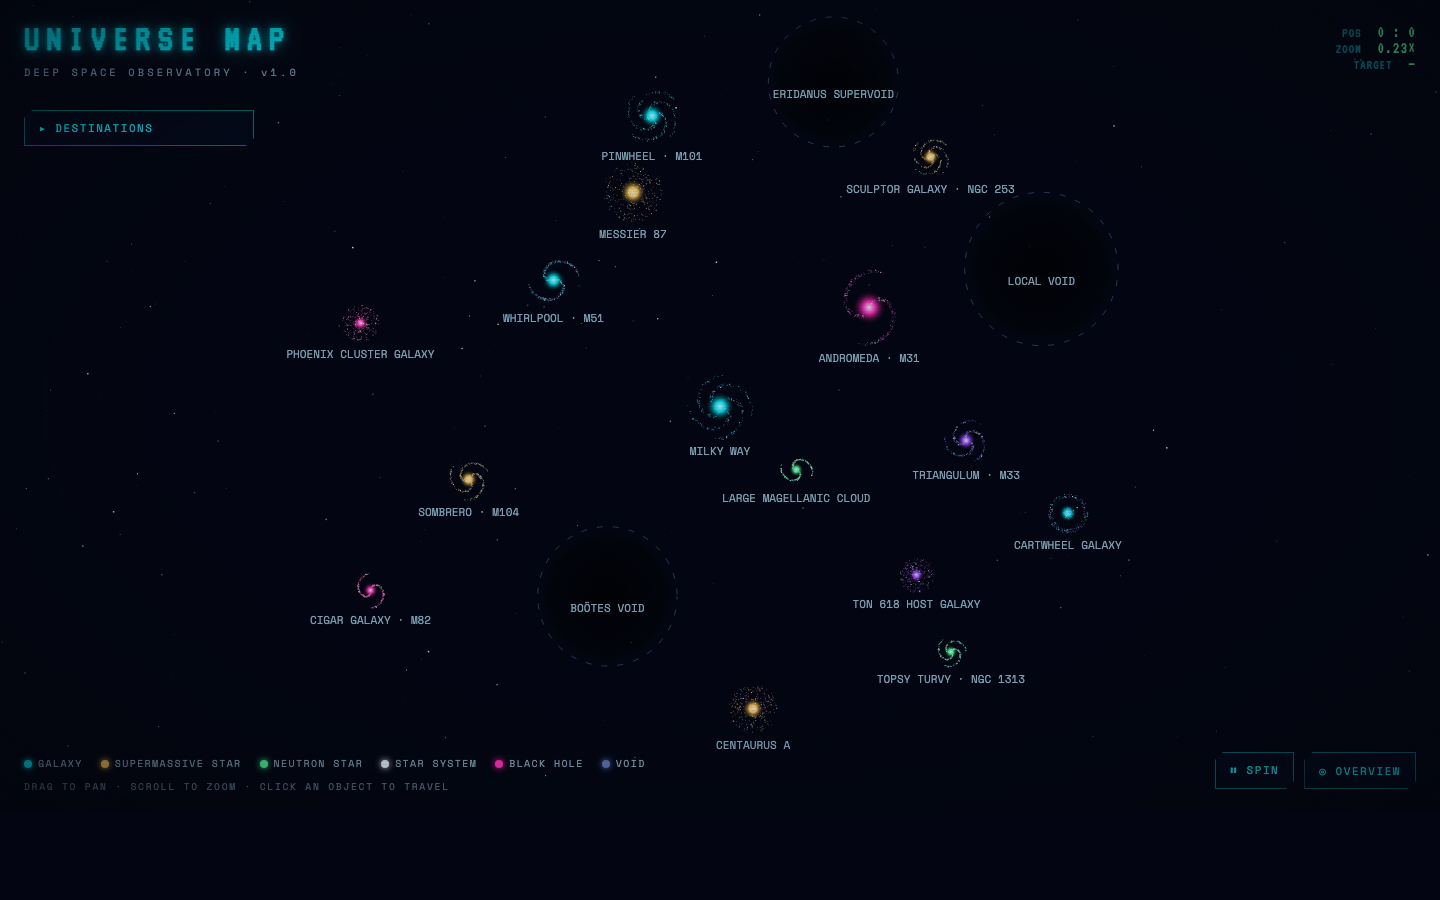
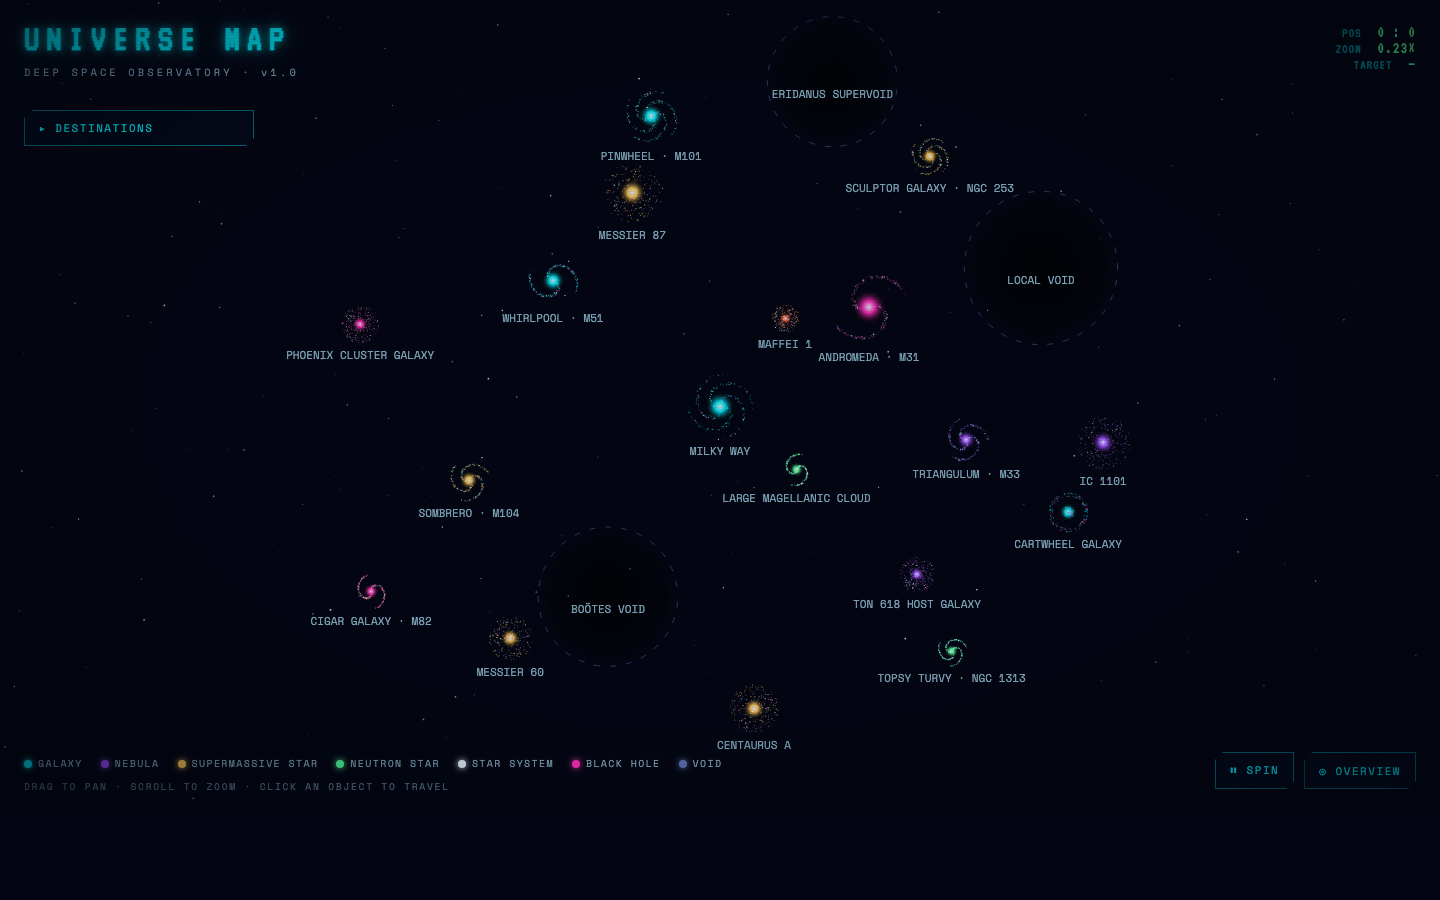
Add nebulae and new elliptical galaxies
New `nebula` object type — a handful of soft, irregularly placed
glow-puffs blended with `globalCompositeOperation: 'lighter'` so
overlapping colors brighten like real ionized gas, instead of a flat
static blob:

- Orion Nebula (M42) and Crab Nebula (M1), inside the Milky Way
- Helix Nebula (NGC 7293), the closest planetary nebula to Earth
- Tarantula Nebula (30 Doradus), inside the LMC alongside R136a1 —
  the star cluster it actually hosts in reality

3 new elliptical galaxies (reusing the existing `elliptical: true`
particle shape):
- IC 1101, one of the largest galaxies ever discovered
- Messier 60, with a new interior black hole M60* (~4.5B solar
  masses) following the same pattern as M87*/M104*/M31*
- Maffei 1, a giant elliptical hidden directly behind the Milky
  Way's own disk (the "Zone of Avoidance"), only found in 1968 via
  infrared

Wired `nebula` through byType, the object-state builder (a new
makeNebulaPuffs), TYPE_LABEL, and a neon-purple badge/legend entry
in style.css/index.html.

Verified in-browser: 41/41 objects valid (unique ids, zero orphan
parents, zero spatial overlaps among top-level galaxies/voids), zero
console errors, confirmed nebula rendering, M60*'s breadcrumb
("MESSIER 60 › M60*") and "inside MESSIER 60" panel copy, and the
destinations nav nesting all new objects under their hosts.
Regenerated the README overview screenshot and updated the object
catalog table.

diff --git a/js/data.js b/js/data.js
@@ -168,6 +168,36 @@ const galaxiesData = {
       size: 'unresolved — quasar outshines it',
       desc: 'The galaxy presumed to surround TON 618 is so thoroughly outshone by its quasar that its actual shape has never been directly resolved — this is an artist’s reconstruction of what a host massive enough to feed such a black hole would look like.'
     },
+    {
+      id: 'ic1101', name: 'IC 1101', type: 'galaxy',
+      class: 'Supergiant elliptical · cD', elliptical: true,
+      x: 1650, y: 150, radius: 115,
+      palette: ['--neon-purple', '--star-white', '--void-blue'],
+      spinSpeed: 0.00003,
+      distance: '~1.04 billion ly',
+      size: 'up to ~4 million ly across (disputed)',
+      desc: 'One of the largest galaxies ever discovered, anchoring the Abell 2029 cluster. Early estimates put its faint outer halo at 4 million light-years across — 40 times the Milky Way — though modern reanalysis suggests a smaller, still-staggering true extent.'
+    },
+    {
+      id: 'm60', name: 'MESSIER 60', type: 'galaxy',
+      class: 'Giant elliptical · E2', elliptical: true,
+      x: -900, y: 1000, radius: 95,
+      palette: ['--golden-yellow', '--star-white', '--neon-purple'],
+      spinSpeed: 0.00006,
+      distance: '~55 million ly',
+      size: '~120,000 ly across',
+      desc: 'A giant elliptical in the Virgo Cluster, seen from Earth almost overlapping its spiral neighbor NGC 4647 — an "odd couple" caught mid-gravitational-dance, though they are millions of light-years apart in reality. Zoom in for the black hole anchoring its core.'
+    },
+    {
+      id: 'maffei1', name: 'MAFFEI 1', type: 'galaxy',
+      class: 'Giant elliptical · E3', elliptical: true,
+      x: 280, y: -380, radius: 60,
+      palette: ['--star-red', '--star-white', '--golden-yellow'],
+      spinSpeed: 0.00005,
+      distance: '~9.8 million ly',
+      size: '~150,000 ly across',
+      desc: 'A giant elliptical hiding directly behind the dust and stars of the Milky Way\'s own disk, in a region astronomers call the Zone of Avoidance. Invisible in ordinary light, it was only discovered in 1968 by looking in infrared.'
+    },
 
     /* ══ SUPERMASSIVE STARS (inside their host galaxies) ══ */
     {
@@ -265,6 +295,48 @@ const galaxiesData = {
       desc: 'Our own star system: the Sun and eight planets bound by its gravity, orbiting roughly 26,000 light-years from the Milky Way’s core. Every human who has ever lived called one of these worlds home.'
     },
 
+    /* ══ NEBULAE (glowing clouds of gas and dust) ══ */
+    {
+      id: 'orion-nebula', name: 'ORION NEBULA · M42', type: 'nebula',
+      class: 'Diffuse emission nebula · stellar nursery',
+      parent: 'milky-way', local: { r: 95, a: 2.2 }, radius: 26,
+      palette: ['--cyber-pink', '--neon-purple', '--star-white'],
+      spinSpeed: 0.00006,
+      distance: '~1,344 ly',
+      size: '~24 ly across',
+      desc: 'The nearest large stellar nursery to Earth, visible to the naked eye as a fuzzy patch in Orion\'s sword. At its heart, the Trapezium Cluster of hot young stars lights up the surrounding gas — over 1,000 new stars are forming inside it right now.'
+    },
+    {
+      id: 'crab-nebula', name: 'CRAB NEBULA · M1', type: 'nebula',
+      class: 'Supernova remnant',
+      parent: 'milky-way', local: { r: 45, a: 0.4 }, radius: 18,
+      palette: ['--neon-cyan', '--neon-purple', '--star-white'],
+      spinSpeed: 0.00007,
+      distance: '~6,500 ly',
+      size: '~11 ly across',
+      desc: 'Wreckage from a supernova so bright that Chinese and Arab astronomers recorded it as a daylight star in the year 1054. The very first entry in Messier\'s catalog, it still hides a neutron star at its core, spinning 30 times every second.'
+    },
+    {
+      id: 'helix-nebula', name: 'HELIX NEBULA · NGC 7293', type: 'nebula',
+      class: 'Planetary nebula · "Eye of God"',
+      parent: 'milky-way', local: { r: 130, a: 1.0 }, radius: 20,
+      palette: ['--terminal-green', '--neon-cyan', '--star-white'],
+      spinSpeed: 0.00005,
+      distance: '~650 ly',
+      size: '~2.5 ly across',
+      desc: 'The closest planetary nebula to Earth — the outer layers of a dying Sun-like star, shed into space and lit up by the exposed white-dwarf core left behind. Its layered, eye-like structure earned it the nickname "Eye of God".'
+    },
+    {
+      id: 'tarantula-nebula', name: 'TARANTULA NEBULA · 30 DORADUS', type: 'nebula',
+      class: 'Giant emission nebula · starburst region',
+      parent: 'lmc', local: { r: 48, a: 3.5 }, radius: 30,
+      palette: ['--cyber-pink', '--golden-yellow', '--star-white'],
+      spinSpeed: 0.00008,
+      distance: '~163,000 ly (LMC)',
+      size: '~1,800 ly across',
+      desc: 'The most violent star-forming region in the Local Group — so luminous that, at the distance of the Orion Nebula, it would cast shadows on Earth. It cradles the super star cluster that gave birth to R136a1, the most massive star known.'
+    },
+
     /* ══ BLACK HOLES ══ */
     {
       id: 'sagittarius-a', name: 'SAGITTARIUS A*', type: 'blackhole',
@@ -305,6 +377,16 @@ const galaxiesData = {
       distance: '~29.3 million ly',
       size: '~1 billion solar masses',
       desc: 'One of the most massive black holes ever found in a nearby galaxy, anchoring the Sombrero’s brilliant core — a billion Suns’ worth of gravity packed into a region smaller than our Solar System.'
+    },
+    {
+      id: 'm60-star', name: 'M60*', type: 'blackhole',
+      class: 'Supermassive black hole',
+      parent: 'm60', local: { r: 0, a: 0 }, radius: 17,
+      palette: ['--golden-yellow', '--neon-purple'],
+      spinSpeed: 0.0006,
+      distance: '~55 million ly',
+      size: '~4.5 billion solar masses',
+      desc: 'A black hole roughly a thousand times heavier than the Milky Way\'s own, anchoring one of the largest known galaxies in the nearby universe — extreme even by the standards of giant ellipticals.'
     },
     {
       id: 'ton-618', name: 'TON 618', type: 'blackhole',

diff --git a/js/main.js b/js/main.js
@@ -110,6 +110,7 @@ const objects = galaxiesData.objects.map((data) => {
   if (data.type === 'galaxy') state.particles = makeGalaxyParticles(data);
   if (data.type === 'blackhole') state.disk = makeDiskParticles(data);
   if (data.type === 'system') state.planets = makePlanets(data);
+  if (data.type === 'nebula') state.puffs = makeNebulaPuffs(data);
   return state;
 });
 
@@ -123,7 +124,7 @@ const pickOrder = [...objects].sort((a, b) => a.data.radius - b.data.radius);
 
 /* Objects grouped by type once, so the render loop can draw each layer
    with a plain `for` — no per-frame filtering, lower branch count. */
-const byType = { void: [], galaxy: [], star: [], neutron: [], system: [], blackhole: [] };
+const byType = { void: [], galaxy: [], nebula: [], star: [], neutron: [], system: [], blackhole: [] };
 for (const o of objects) byType[o.data.type].push(o);
 
 /* Interior objects orbit with their host galaxy's spin */
@@ -212,6 +213,23 @@ function makePlanets(data) {
   return pts;
 }
 
+/* A handful of soft, irregularly placed glowing puffs of gas —
+   rotate together with the nebula's own (slow) spin. */
+function makeNebulaPuffs(data) {
+  const pts = [];
+  const count = 10;
+  for (let i = 0; i < count; i++) {
+    pts.push({
+      r: data.radius * rnd() * 0.85,
+      a: rnd() * Math.PI * 2,
+      size: data.radius * (0.35 + rnd() * 0.4),
+      ci: pickColorIndex(),
+      alpha: 0.35 + rnd() * 0.3,
+    });
+  }
+  return pts;
+}
+
 /* ── Renderers ── */
 function drawGalaxy(o, t) {
   const { data, colors } = o;
@@ -241,6 +259,37 @@ function drawGalaxy(o, t) {
     const s = Math.max(p.size * Math.min(z * 2, 1.6), 0.6);
     ctx.fillRect(px, py, s, s);
   }
+  ctx.globalAlpha = 1;
+}
+
+/* A soft, roiling cloud of overlapping glow-puffs, additively blended
+   so overlapping colors brighten like real ionized gas. */
+function drawNebula(o, t) {
+  const { data, colors } = o;
+  const va = childAlpha(o);
+  if (va < 0.02) return;
+  const wp = worldPos(o);
+  const sc = worldToScreen(wp.x, wp.y);
+  const z = camera.zoom;
+  const rot = o.angle + mapRotation;
+
+  ctx.globalCompositeOperation = 'lighter';
+  for (const p of o.puffs) {
+    const a = p.a + rot;
+    const px = sc.x + Math.cos(a) * p.r * z;
+    const py = sc.y + Math.sin(a) * p.r * z;
+    const R = Math.max(p.size * z, 2);
+    const g = ctx.createRadialGradient(px, py, 0, px, py, R);
+    const color = colors[p.ci] || colors[0];
+    g.addColorStop(0, color);
+    g.addColorStop(1, 'rgba(0,0,0,0)');
+    ctx.globalAlpha = p.alpha * va;
+    ctx.fillStyle = g;
+    ctx.beginPath();
+    ctx.arc(px, py, R, 0, Math.PI * 2);
+    ctx.fill();
+  }
+  ctx.globalCompositeOperation = 'source-over';
   ctx.globalAlpha = 1;
 }
 
@@ -674,6 +723,7 @@ const hudTarget = document.getElementById('hud-target');
 
 const TYPE_LABEL = {
   galaxy: 'GALAXY',
+  nebula: 'NEBULA',
   star: 'SUPERMASSIVE STAR',
   neutron: 'NEUTRON STAR',
   system: 'STAR SYSTEM',
@@ -829,6 +879,7 @@ function renderScene(t) {
 
   for (const o of byType.void) drawVoid(o, t);
   for (const o of byType.galaxy) drawGalaxy(o, t);
+  for (const o of byType.nebula) drawNebula(o, t);
   for (const o of byType.star) drawStarObj(o, t);
   for (const o of byType.neutron) drawNeutronStar(o, t);
   for (const o of byType.system) drawSolarSystem(o, t);

diff --git a/css/style.css b/css/style.css
@@ -138,6 +138,7 @@ html, body {
 }
 .dot { width: 8px; height: 8px; border-radius: 50%; display: inline-block; }
 .dot-galaxy    { background: var(--neon-cyan);    box-shadow: 0 0 6px var(--neon-cyan); }
+.dot-nebula    { background: var(--neon-purple);  box-shadow: 0 0 6px var(--neon-purple); }
 .dot-star      { background: var(--golden-yellow); box-shadow: 0 0 6px var(--golden-yellow); }
 .dot-neutron   { background: var(--terminal-green); box-shadow: 0 0 6px var(--terminal-green); }
 .dot-system    { background: var(--star-white);   box-shadow: 0 0 6px var(--star-white); }
@@ -281,6 +282,7 @@ html, body {
   color: var(--neon-cyan);
 }
 .type-badge.galaxy    { color: var(--neon-cyan); }
+.type-badge.nebula    { color: var(--neon-purple); }
 .type-badge.star      { color: var(--golden-yellow); }
 .type-badge.neutron   { color: var(--terminal-green); }
 .type-badge.system    { color: var(--star-white); }

diff --git a/index.html b/index.html
@@ -47,6 +47,7 @@
   <footer class="hud hud-bottom-left">
     <ul class="legend">
       <li><span class="dot dot-galaxy"></span>GALAXY</li>
+      <li><span class="dot dot-nebula"></span>NEBULA</li>
       <li><span class="dot dot-star"></span>SUPERMASSIVE STAR</li>
       <li><span class="dot dot-neutron"></span>NEUTRON STAR</li>
       <li><span class="dot dot-system"></span>STAR SYSTEM</li>

diff --git a/README.md b/README.md
@@ -16,18 +16,23 @@ Voidarium is a zero-dependency universe map rendered entirely on a single `<canv
 
 ## ✦ What's inside
 
-**33 real astronomical objects across six classes:**
+**41 real astronomical objects across seven classes:**
 
 | Class | Objects |
 |---|---|
-| 🌀 **Galaxies** (15) | Milky Way, Andromeda, Triangulum, Whirlpool, Sombrero, Pinwheel, Messier 87, Large Magellanic Cloud, Centaurus A, Cartwheel, Cigar Galaxy (M82), Topsy Turvy (NGC 1313), Sculptor Galaxy (NGC 253), Phoenix Cluster Galaxy, TON 618 Host Galaxy |
+| 🌀 **Galaxies** (18) | Milky Way, Andromeda, Triangulum, Whirlpool, Sombrero, Pinwheel, Messier 87, Large Magellanic Cloud, Centaurus A, Cartwheel, Cigar Galaxy (M82), Topsy Turvy (NGC 1313), Sculptor Galaxy (NGC 253), Phoenix Cluster Galaxy, TON 618 Host Galaxy, IC 1101, Messier 60, Maffei 1 |
+| 🟣 **Nebulae** (4) | Orion Nebula (M42), Crab Nebula (M1), Helix Nebula (NGC 7293), Tarantula Nebula (30 Doradus) |
 | ⭐ **Supermassive stars** (5) | UY Scuti, Stephenson 2-18, Betelgeuse, Eta Carinae, R136a1 |
 | 🟢 **Neutron stars** (3) | M82 X-2, NGC 1313 X-2, NGC 253 Magnetar |
 | 🪐 **Star systems** (1) | The Solar System — the Sun and its 8 planets, orbiting inside the Milky Way |
-| ⚫ **Black holes** (6) | Sagittarius A*, M87*, M31*, M104*, TON 618, Phoenix A |
+| ⚫ **Black holes** (7) | Sagittarius A*, M87*, M31*, M104*, M60*, TON 618, Phoenix A |
 | 🕳 **Cosmic voids** (3) | Boötes Void, Local Void, Eridanus Supervoid |
 
-**Galaxies have interiors.** Stars, neutron stars, black holes, and even our own Solar System live *inside* their real host galaxies — Sagittarius A* anchors the Milky Way, R136a1 burns in the Large Magellanic Cloud, M87* hides in Messier 87, and the ultraluminous pulsar M82 X-2 spins inside the starburst Cigar Galaxy. TON 618 and Phoenix A — previously floating alone in deep space — now sit inside their real host galaxies too. Zoom into a galaxy and its residents fade into view, orbiting along with the galaxy's spin. Voids stay out in deep space, because that's what voids are: the enormous empty gaps *between* galaxies.
+**Galaxies have interiors.** Stars, nebulae, neutron stars, black holes, and even our own Solar System live *inside* their real host galaxies — Sagittarius A* anchors the Milky Way, R136a1 and the Tarantula Nebula burn in the Large Magellanic Cloud, M87* hides in Messier 87, and the ultraluminous pulsar M82 X-2 spins inside the starburst Cigar Galaxy. TON 618 and Phoenix A — previously floating alone in deep space — now sit inside their real host galaxies too. Zoom into a galaxy and its residents fade into view, orbiting along with the galaxy's spin. Voids stay out in deep space, because that's what voids are: the enormous empty gaps *between* galaxies.
+
+**Three new giant ellipticals join the map**, rendered with the same particle-based elliptical shape as Messier 87 and Centaurus A: IC 1101 (one of the largest galaxies ever found), Messier 60 (an "odd couple" with its spiral neighbor NGC 4647, and now home to its own black hole, M60*), and Maffei 1 (a giant elliptical hidden directly behind the Milky Way's own disk, only found in 1968 by looking in infrared).
+
+**Nebulae glow like real ionized gas.** Each is a handful of soft, overlapping glow-puffs blended with additive compositing, so where two puffs overlap the color brightens instead of just layering flat — a cheap trick that reads as a roiling gas cloud instead of a static blob.
 
 **TON 618 has two looks.** From a distance it renders as a lensed silhouette in the style of *Interstellar*'s Gargantua — a tall halo of light bent over the poles with a thin bright band where its tilted disk is seen edge-on. Click it and travel there, and it switches to the same detailed neon accretion-disk rendering every other black hole uses.
 